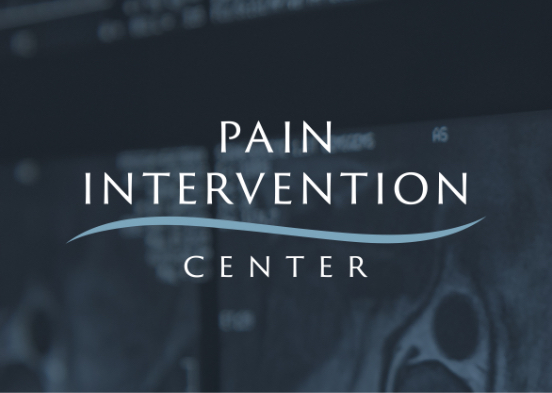
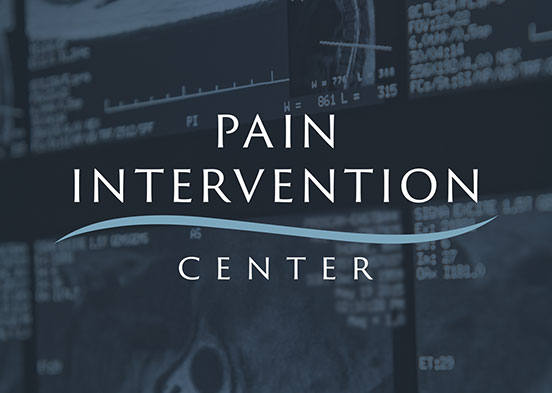
Add PIC page and other updates

diff --git a/portfolio/pain-intervention-center/index.html b/portfolio/pain-intervention-center/index.html
@@ -1,0 +1,107 @@
+<!DOCTYPE HTML>
+
+<html>
+	<head>
+		<title>Pain Intervention Center | Portfolio | Kelsey Abbate</title>
+		<meta charset="utf-8" />
+		<meta name="viewport" content="width=device-width, initial-scale=1, user-scalable=no" />
+		<link rel="stylesheet" href="../../assets/css/main.css" />
+	</head>
+	<body>
+		<header>
+			<div class="logotype secondary-type">
+				<a href="https://kelseyabbate.com">Kelsey Abbate</a>
+			</div>
+			<nav>
+				<ul class="primary-type">
+					<li><a href="https://kelseyabbate.com">Portfolio</a></li>
+					<li><a href="#">About</a></li>
+					<li><a href="#">Contact</a></li>
+				</ul>
+			</nav>
+		</header>
+		
+		<section class="title primary-type">
+			<h1>Pain Intervention Center</h1>
+		</section>
+
+		<main>
+			<div class="full">
+				<img src="pic-logo-1.jpg" alt="Pain Intervention Center Logo" srcset="pic-logo-1@2x.jpg 2x">
+			</div>
+
+			<div class="half">
+				<div class="text details">
+					<dl>
+					  <dt class="secondary-type">Client</dt>
+					  <dd>Patrick Waring, M.D.</dd>
+					</dl>
+					<dl>
+					  <dt class="secondary-type">Agency</dt>
+					  <dd>Deep Fried Advertising</dd>
+					</dl>
+					<dl>
+					  <dt class="secondary-type">Years Active</dt>
+					  <dd>2015-2019</dd>
+					 </dl>
+					 <dl>
+					  <dt class="secondary-type">Role</dt>
+					  <dd>Lead Designer, Developer</dd>
+					</dl>
+					<dl>
+					  <dt class="secondary-type">Work</dt>
+					  <dd>Branding, Collateral, Brochures, Billboards, Website, Print and Digital Advertising</dd>
+					</dl>
+					<dl>
+						<dt class="secondary-type">WWW</dt>
+						<dd><a href="https://paininterventioncenter.com" target="_blank">PainInterventionCenter.com</a></dd>
+					</dl>
+				</div>
+			</div>
+
+			<div class="half">
+				<div class="text">
+					<p>The Pain Intervention Center provides minimally invasive procedures for spine, neck, and back pain. Dr. Waring is an expert in the field of interventional pain management without the use of opioids. He has helped hundereds of patients find relief and manage their pain with his treatments in a safe and comfortable atmosphere.</p>
+				</div>
+			</div>
+
+			<div class="full">
+				<img src="pic-logo-2.jpg" alt="Pain Intervention Center Logo" srcset="pic-logo-2@2x.jpg 2x">
+			</div>
+
+			<div class="full">
+				<div class="text">
+					<p>In 2015, I developed a revamped brand for the Pain Intervention Center including a new logo and website. The logo represents the sophistication and precision of Dr. Waring's practice and expertise, along with subtle abstraction of a spine. Throughout the years I designed marketing materials such as brochures, billboards, and advertising.</p>
+				</div>
+			</div>
+			<div class="full">
+				<img src="pic-stationery-1.jpg" alt="Pain Intervention Center Stationery" srcset="pic-stationery-1@2x.jpg 2x">
+			</div>
+			<div class="full">
+				<img src="pic-ads-1.jpg" alt="Pain Intervention Center Ads" srcset="pic-ads-1@2x.jpg 2x">
+			</div>
+			<div class="full">
+				<img src="pic-ads-2.jpg" alt="Pain Intervention Center Ads" srcset="pic-ads-2@2x.jpg 2x">
+			</div>
+			<div class="full">
+				<img src="pic-web-1.jpg" alt="Pain Intervention Center Website" srcset="pic-web-1@2x.jpg 2x">
+			</div>
+
+		</main>
+
+		<section class="pagination primary-type">
+			<a class="secondary-type" href="../triton-stone">Next Project</a>
+			<h4>Triton Stone Group</h4>
+		</section>
+
+		<footer>
+			<div class="half">
+				<p>© 2012-2019 Kelsey Abbate.</p>
+			</div>
+			<div class="half last">
+				<p>Work created as a full-time employee of the agency stated above.</p>
+			</div>
+		</footer>
+
+	</body>
+</html>

diff --git a/index.html b/index.html
@@ -31,7 +31,7 @@
 			
 			<div class="full first">
 				<div class="text">
-					<p>A showcase of my professional branding, graphic design, web design, and development projects. I’ve worked with clients in a variety of industries including healthcare, tourism, non-profit, environmental, B2B/B2C, and law.</p>
+					<p>A showcase of my professional branding, graphic design, web design, and development projects. I’ve done work for clients in a variety of industries including healthcare, tourism, non-profit, environmental, B2B/B2C, and law.</p>
 				</div>
 			</div>
 
@@ -42,9 +42,9 @@
 			<div class="half">
 				<a href="portfolio/restore" title="Restore the Mississippi River Delta"><img src="portfolio/restore/restore-thumb.jpg" alt="Restore the Mississippi River Delta" srcset="portfolio/restore/restore-thumb@2x.jpg 2x"></a>
 			</div>
-			<!-- <div class="half">
+			<div class="half">
 				<a href="portfolio/pain-intervention-center" title="Pain Intervention Center"><img src="portfolio/pain-intervention-center/pic-thumb.jpg" alt="Pain Intervention Center" srcset="portfolio/pain-intervention-center/pic-thumb@2x.jpg 2x"></a>
-			</div> -->
+			</div>
 			<div class="half">
 				<a href="portfolio/triton-stone" title="Triton Stone Group"><img src="portfolio/triton-stone/triton-thumb.jpg" alt="Triton Stone Group" srcset="portfolio/triton-stone/triton-thumb@2x.jpg 2x"></a>
 			</div>

diff --git a/portfolio/restore/index.html b/portfolio/restore/index.html
@@ -110,8 +110,8 @@
 		</main>
 
 		<section class="pagination primary-type">
-			<a class="secondary-type" href="../triton-stone">Next Project</a>
-			<h4>Triton Stone Group</h4>
+			<a class="secondary-type" href="../pain-intervention-center">Next Project</a>
+			<h4>Pain Intervention Center</h4>
 		</section>
 
 		<footer>
